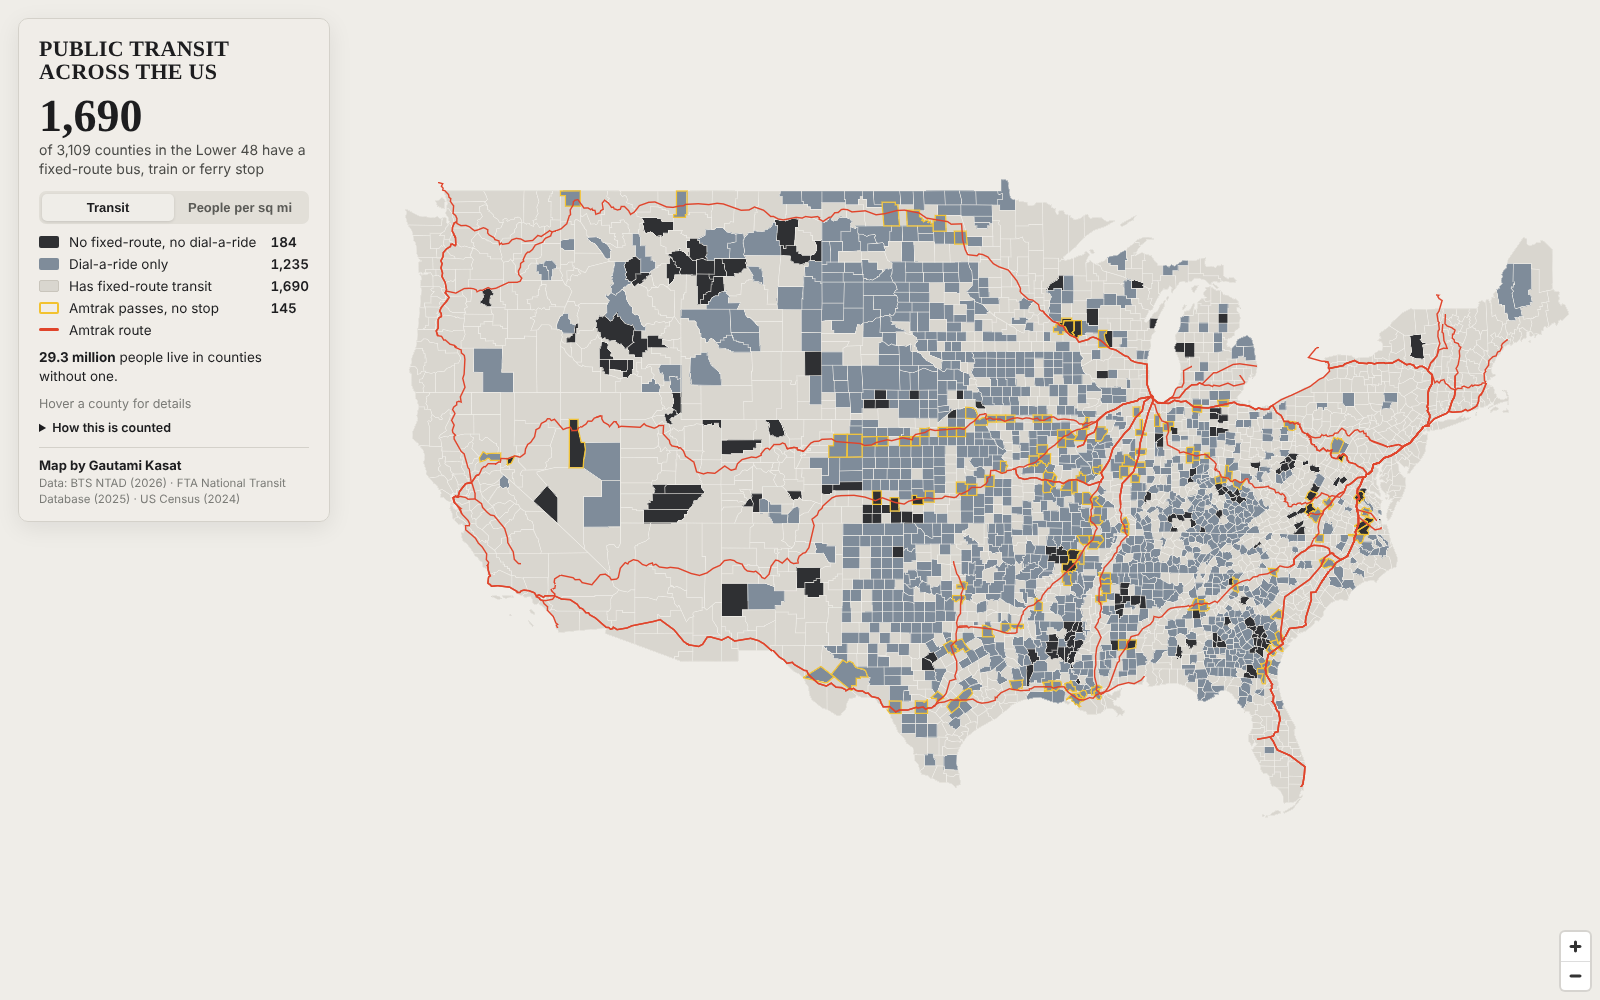
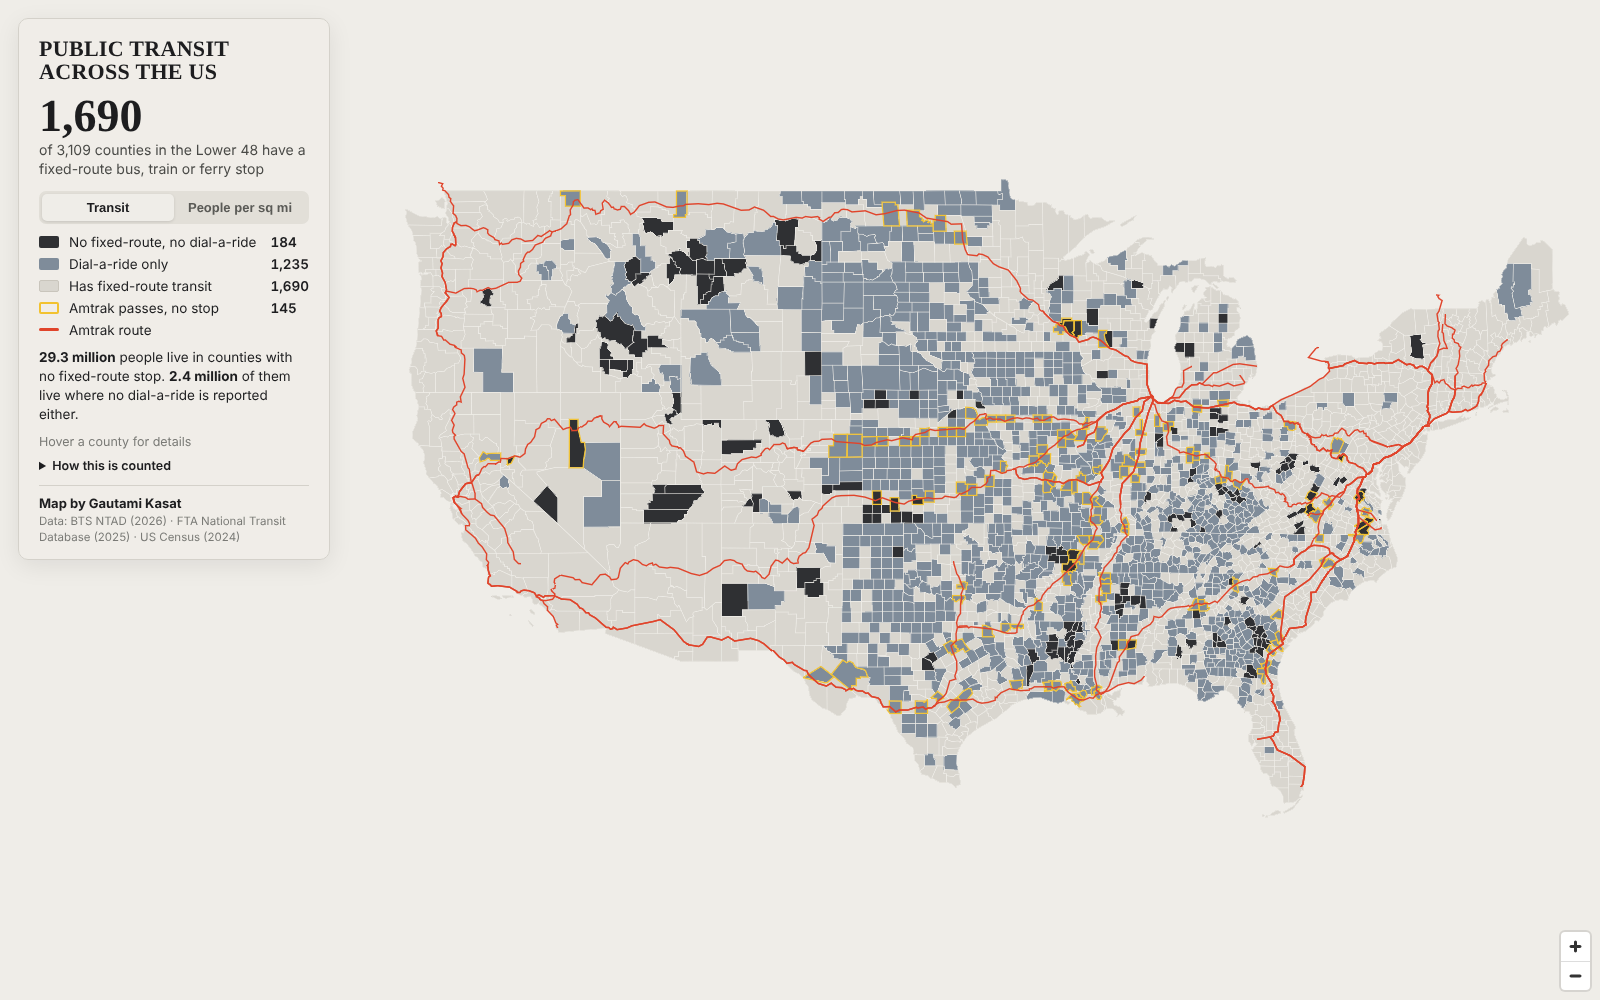
Day 18: restore population line with the 2.4 million figure
Claude-Session: https://claude.ai/code/session_016f3vJy45cJfbachEju2CvB

Changed region(s): [[0.0, 0.372, 0.1875, 0.558]]

diff --git a/output/day18_null-road-only-counties.html b/output/day18_null-road-only-counties.html
@@ -61,7 +61,8 @@
     <div class="key"><span class="sw" style="background:#e3ecf1"></span><span>under 6</span><span></span><span class="sw" style="background:#bcd3e1"></span><span>6 to 20</span><span></span><span class="sw" style="background:#8db4cc"></span><span>20 to 50</span><span></span><span class="sw" style="background:#5e91b3"></span><span>50 to 150</span><span></span><span class="sw" style="background:#386d93"></span><span>150 to 500</span><span></span><span class="sw" style="background:#1d4a6b"></span><span>500 or more</span><span></span>
       <span class="sw" style="border:1.5px solid #1d1d1f"></span><span>Outlined: no fixed-route stop</span><span></span></div>
   </div>
-  <p class="stat"><b>29.3 million</b> people live in counties without one.</p>
+  <p class="stat"><b>29.3 million</b> people live in counties with no fixed-route stop. <b>2.4 million</b>
+    of them live where no dial-a-ride is reported either.</p>
   <p class="hint">Hover a county for details</p>
   <details><summary>How this is counted</summary>
     <p><b>Fixed-route:</b> at least one stop on a scheduled local or regional bus, light rail, subway or commuter rail route
